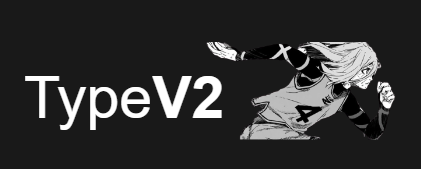
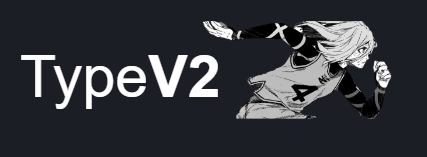
changed color scheme and styling

Changed region(s): [[0.4632, 0.1274, 0.9572, 0.8408], [0.0309, 0.3312, 0.5249, 0.7643]]

diff --git a/src/styles/globals.css b/src/styles/globals.css
@@ -2,6 +2,8 @@
   --blue: #1e90ff;
   --width: clamp(700px, 800px, 1000px);
   --height: calc(var(--width) / 7.06);
+  --background: #1C1E26;
+  --foreground: #232530;
 }
 
 a {
@@ -19,8 +21,8 @@ body {
 .App {
   display:flex;
   justify-content: center;
-  text-align: center;
-  background-color:#191919;
+  /*background-color:#191919; */
+  background-color: var(--background);
   height: 100vh;
   width:100vw;
 }
@@ -33,17 +35,16 @@ body {
 
 .chigiri{
   position:absolute;
-  left:40vw;
+  left:38vw;
   top:10vh;
   height:8.5vw;
-  width:21vw;
 }
 
 
 .user{
   position:absolute;
   left:63vw;
-  top:19vh;
+  top:17.5vh;
   --tw-text-opacity: 1;
   color: white;
   font-size: 1.5rem/* 24px */;
@@ -64,6 +65,8 @@ body {
 
 
 .test{
+  position:absolute;
+  top:35vh;
   display: flex;
   flex-direction: column;
   justify-content: center;
@@ -85,13 +88,13 @@ body {
 }
 
 .CharWrong{
-  color: #e0829d;
+  color: #E9436F;
   font-size: calc(var(--width) / 30);
   white-space: pre;
 } 
 
 .CharCorrect{
-  color: #BED754;
+  color: #27D796;
   font-size: calc(var(--width) / 30);
   white-space: pre;
 }
@@ -107,8 +110,8 @@ body {
 
 .wordCurrent{
   z-index:3;
-  background-color: #353434;
-  border-color: #353434;
+  background-color: #2E303E;
+  border-color: var(--background);
   border-radius: 4px;
   padding:2px;
 }
@@ -123,7 +126,7 @@ body {
   border-radius: 7px;
   height: var(--height);
   width: var(--width);
-  background-color: #242323;
+  background-color: var(--foreground);;
   border:none;
   position:relative;
 }
@@ -135,7 +138,7 @@ body {
   width: calc(var(--width) / 1.07);
   top: calc(var(--height) / 4.9);
   left: calc(var(--width) / 30);
-  background-color: #242323;
+  background-color: var(--foreground);
   border:none;
   position:relative;
   overflow: hidden;
@@ -168,7 +171,7 @@ body {
   border-radius: 5px;
   height: 90%;
   width: 55%;
-  background-color: #242323;
+  background-color: var(--foreground);;
   border:none;
   display:block;
   color: white;
@@ -202,7 +205,7 @@ body {
   padding-left: 5%;
   padding-right: 5%;
   border-radius: 5px;
-  background-color: #242323;
+  background-color: var(--foreground);;
   border:none;
   text-align: center;
   align-items:center;
@@ -222,10 +225,10 @@ body {
   display:flex;
   padding-left: 5%;
   padding-right: 5%;
-  font-size: calc(var(--width) / 25);
+  font-size: calc(var(--width) / 28);
   border-radius: 5px;
   height: 100%;
-  background-color: #242323;
+  background-color: var(--foreground);;
   border:none;
   text-align: center;
   align-items:center;
@@ -237,7 +240,7 @@ body {
   vertical-align:top; /* Align button vertically */
   border-radius: 5px;
   height: 100%;
-  background-color: #242323;
+  background-color: var(--foreground);;
   border:none;
 }
 
